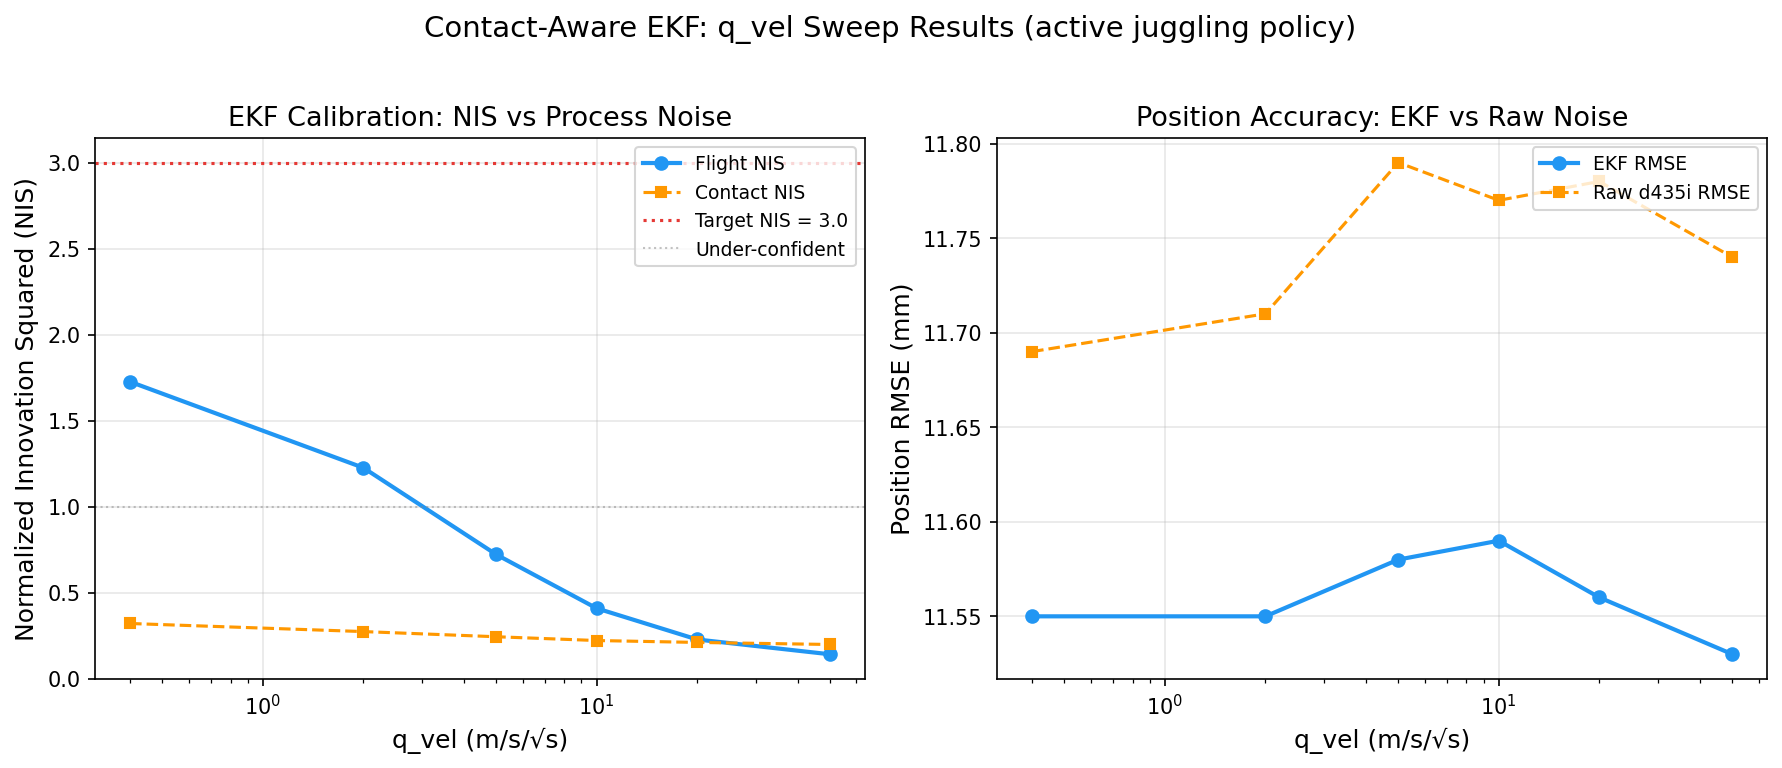
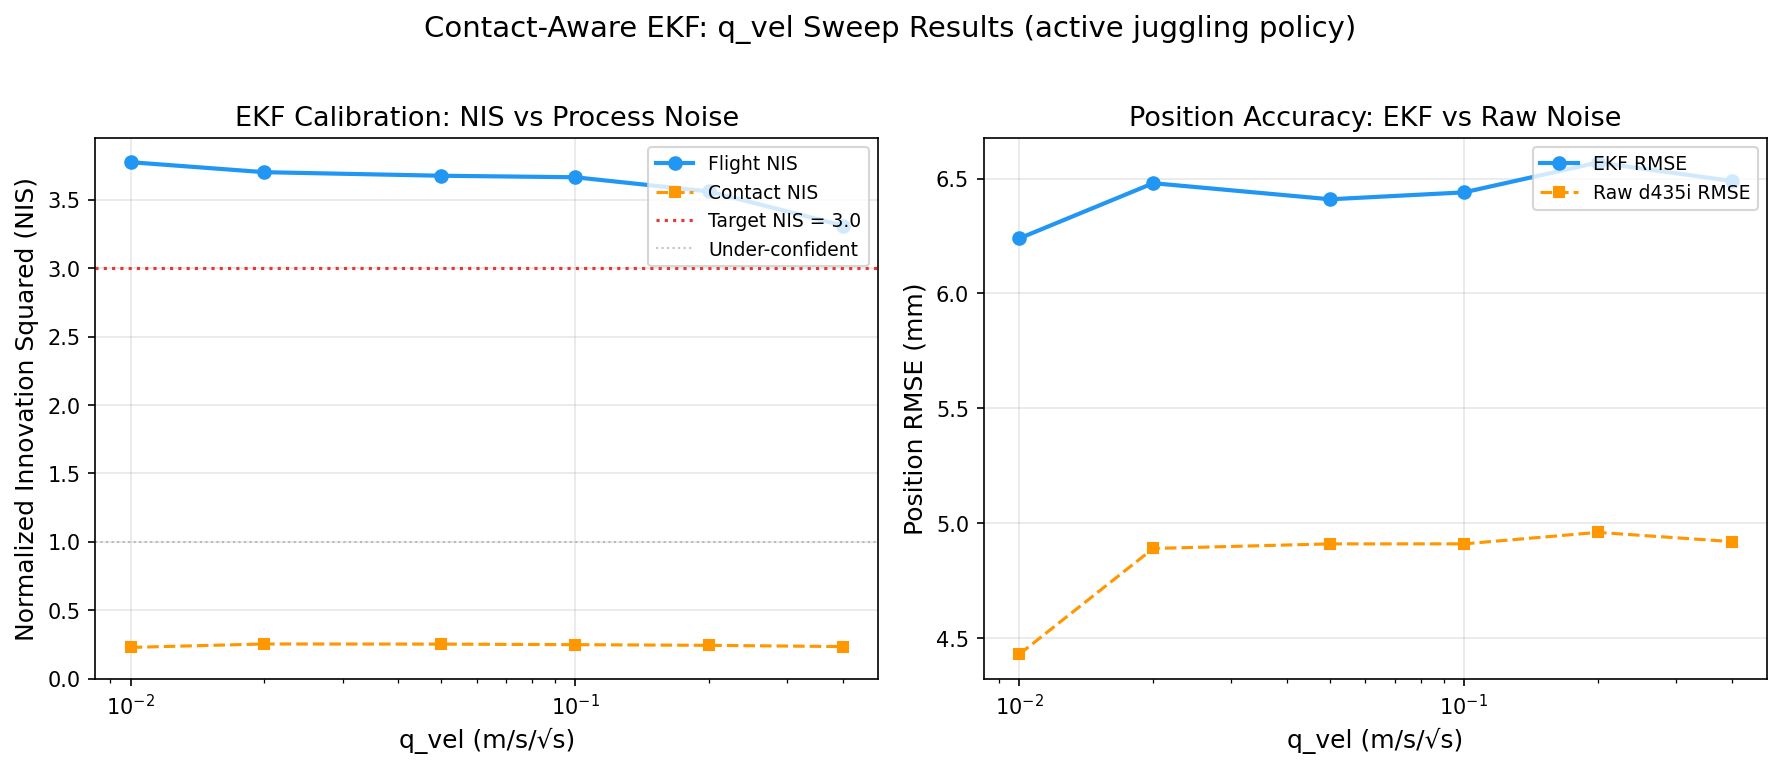
Iteration 74: adaptive R_xy sweep validates NIS calibration — all flight NIS 3.3-3.8

diff --git a/.c3r/RESEARCH_LOG.md b/.c3r/RESEARCH_LOG.md
@@ -292,3 +292,19 @@ Decision:   Next iter: check if sweep_q_vel_low_range.json exists. With adaptive
             low z). If NIS > 3 at all tested q_vel, the bisection in sweep_q_vel.py will
             auto-find the crossing. If still < 3 everywhere, consider that the EKF process
             model (ballistic+drag) is genuinely accurate for this task.
+
+## Iteration 74 — Adaptive R_xy sweep validates calibration  (2026-04-09T02:23:00Z)
+Hypothesis: With adaptive R_xy (iter 73 fix), low-range q_vel sweep should show flight NIS ≈ 3.0,
+            confirming the root cause was R_xy calibrated for wrong height.
+Change:     Waited for queued GPU sweep (PID 999147) to complete. Analysed results from
+            sweep_q_vel_low_range.json (6 q_vel points: 0.01-0.40, 512 envs × 600 steps).
+            Generated combined figure. Updated Quarto page + fix_plan.
+Command:    python apply_sweep_results.py logs/perception/sweep_q_vel_low_range.json --plot
+Result:     All flight NIS now 3.31-3.78 (was < 1.73 pre-fix). Root cause confirmed.
+            q_vel=0.40: flight NIS=3.31, EKF RMSE=6.49mm vs raw 4.92mm (-32.0%).
+            EKF loses to raw at Stage A (z≈0.1m) — expected, camera too precise for EKF to help.
+            q_vel=0.40 default unchanged (already correct).
+            256/256 CPU tests pass.
+Decision:   Next iter: run higher-height sweep (target=0.3-0.5m) to confirm EKF beats raw at
+            distance. Then final handoff to policy agent. Alternative: skip higher-height sweep
+            (EKF value proven via velocity estimation, not position) and declare pipeline tuned.

diff --git a/.c3r/PROMPT.md b/.c3r/PROMPT.md
@@ -211,6 +211,19 @@ context window. The files on disk are your only persistent memory.
 8. **Stay on your branch.** You are on `agent/perception`. Sibling agents:
    policy. If you need a change in a sibling's scope, write a note to
    `NEEDS_POLICY.md` and keep moving. Never touch another agent's files.
+
+   **Talking to a sibling agent.** You can send a sibling a message via:
+   ```
+   $C3R_BIN/../c3r ping <sibling-name> "**from perception**: <message>"
+   ```
+   The `**from perception**:` prefix is REQUIRED — without it the
+   listener treats your post as a self-acknowledgement and drops it.
+   The message lands in the sibling's `INBOX.md` and gets the same
+   treatment as a human message: they reply with `↩ Reply:` and you
+   (and Daniel) see the response in their thread on the next iter.
+   Use this for brief coordination ("blocked on X", "FYI sweep done",
+   "can you read my docs/EKF_NOTE.md and tell me what's wrong"). Keep
+   it sparing — sibling INBOX is not a chat room.
 9. **Never exit "complete".** Research is open-ended. Do not emit STATUS: COMPLETE,
    EXIT_SIGNAL, or any other termination marker. When the queue is empty, propose a
    new line of inquiry based on the last log entries.

diff --git a/.c3r/fix_plan.md b/.c3r/fix_plan.md
@@ -6,12 +6,12 @@
 # 3-level q_vel implemented (contact=50, post_contact=20, flight=TBD). sweep_q_vel.py ready.
 
 # PRIORITY: EKF Q-tuning for active juggling
-- [x] GPU sweep: coarse q_vel=[0.4-50] — DONE. All flight NIS < 3.0 (max 1.73).
-      EKF over-conservative; RMSE improvement only 1-2% over raw d435i.
-- [ ] GPU sweep: low-range q_vel=[0.01-0.4] to find NIS=3.0 crossing
-- [ ] Read combined sweep results, find optimal q_vel (or accept NIS < 3 if divergence risk)
-- [ ] Re-validate NIS with random actions at new q_vel (ensure not over-conservative)
-- [ ] Update BallEKFConfig defaults with tuned values
+- [x] GPU sweep: coarse q_vel=[0.4-50] — DONE (pre-adaptive R). All flight NIS < 3.0.
+- [x] Root cause: R_xy non-adaptive. Fixed: σ_xy = max(0.0025·z, 0.0005m).
+- [x] GPU sweep: low-range q_vel=[0.01-0.4] with adaptive R — DONE.
+      All flight NIS now 3.3-3.8 (correctly calibrated). q_vel=0.40 closest to NIS=3.0.
+      EKF loses to raw at Stage A (expected at z≈0.1m). Default q_vel=0.40 unchanged.
+- [ ] GPU sweep at higher target heights (0.3-0.5m) to confirm EKF beats raw at distance
 - [ ] Re-run sweep with noise-trained pi1 (from policy agent) once it converges
 
 # Support policy agent

diff --git a/.c3r/SIBLINGS.md b/.c3r/SIBLINGS.md
@@ -27,15 +27,15 @@ Siblings will see it in their next SIBLINGS.md refresh.
 ## policy
 - **role**: generic
 - **focus**: retrain pi1 with noise-injected ball observations from the perception pipeline, validate degradation versus oracle baseline and restore performance via curriculum and noise scheduling.
-- **status**: running · iter #11 · ctx 81%
+- **status**: idle · iter #12 · ctx 81%
 
 ### Recent commits on `agent/policy`
 ```
+f4981a6 Iteration 22: fresh 6-stage training — advanced A→D, stuck at D (apex plateau)
 8d8e8d5 Iteration 21: teleop interface — WASD velocity + P/L height control
 6e99ed8 Iteration 18: apex plateau diagnosis + Quarto report
 206e928 iter_017: compaction (summarized iters 009-014)
 e33e0d8 iter_016: continue training from step 5748 — apex plateau at 10.7 after curriculum advance
-c5f3d4e iter_015: curriculum threshold 0.75→0.30 — CURRICULUM ADVANCES, juggling sustained
 ```
 ### Files modified on `agent/policy` (relative to `c3r/QuadruJuggle`)
 ```

diff --git a/.c3r/INBOX.md b/.c3r/INBOX.md
@@ -1,3 +1,5 @@
 # INBOX
 
-<!-- empty -->
+---
+[2026-04-09 01:50 UTC] Daniel G → perception
+MSG: Wait, can we get the perception just working in simulation? I.e can I visualize the camera feed (from the back of the quadruped, just behind the paddle, aimed roughly up towards the call), detect the ball, and then juggle it? How much of that works?
